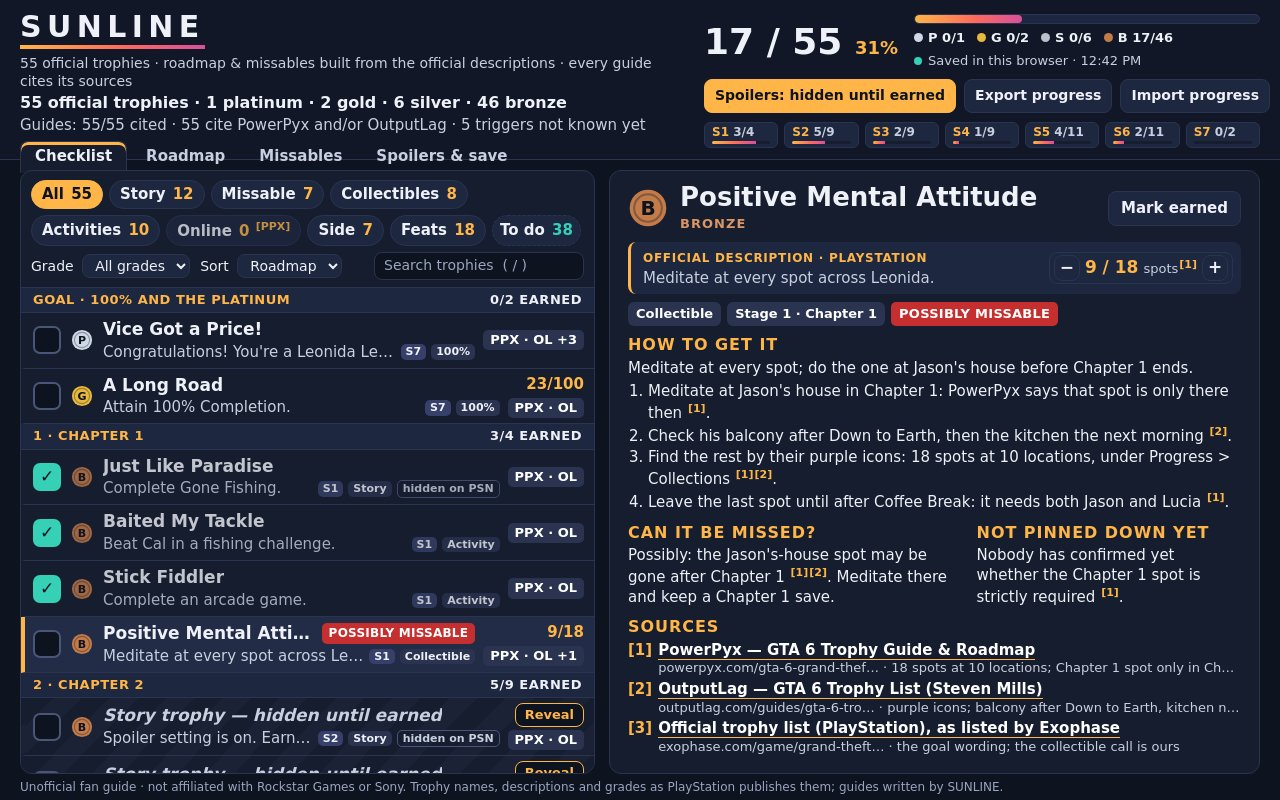
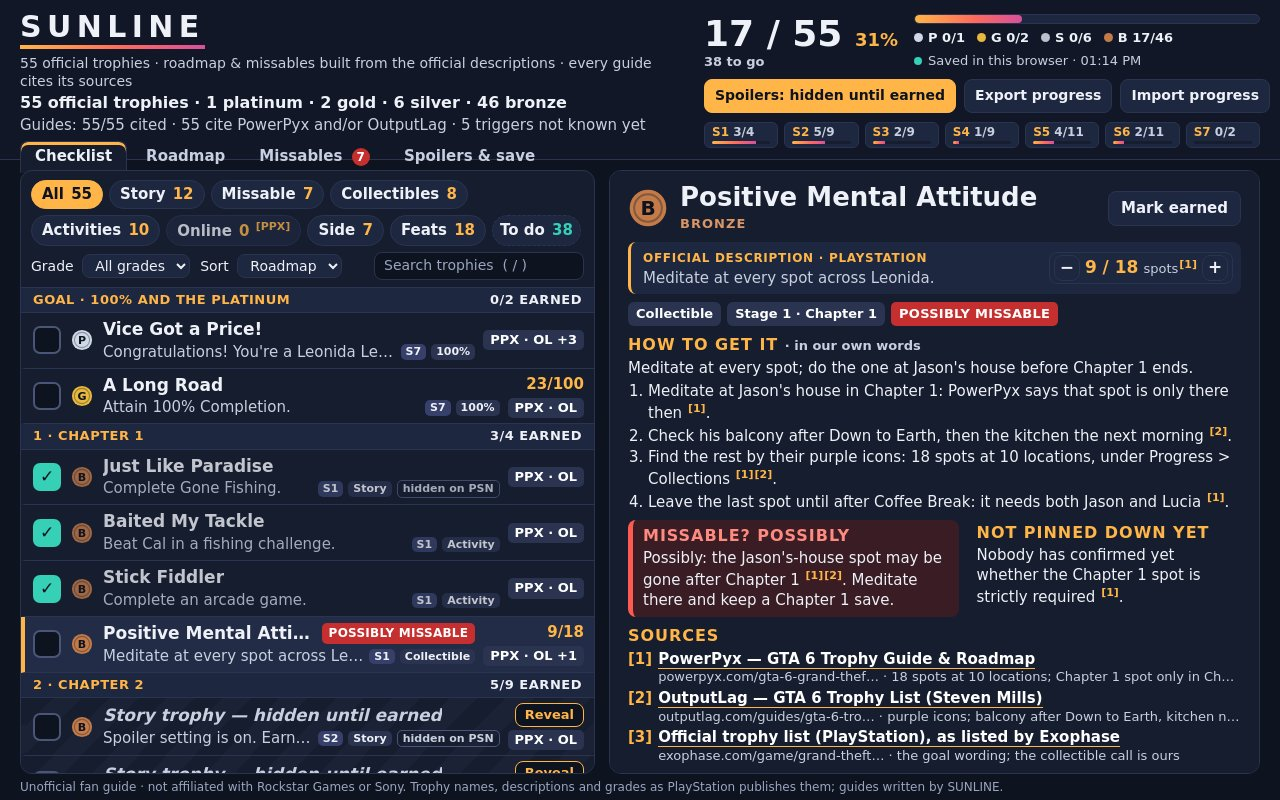
SUNLINE M2f: tinted Missable callout and 'in our own words' label in the guide pane; 'n to go' and a Missables count badge in the header; shots re-taken

diff --git a/app/css/sunline.css b/app/css/sunline.css
@@ -107,6 +107,12 @@ code { font-size: 13px; background: var(--raised); padding: 1px 5px; border-radi
 
 .earned-count small { font-size: 18px; color: var(--amber); font-weight: 800; }
 
+.earned-count .to-go { display: block; margin-top: 3px; font-size: 13px; font-style: normal; font-weight: 700;
+  color: var(--desc); }
+
+.tab-badge { display: inline-block; min-width: 18px; margin-left: 4px; padding: 0 5px; border-radius: 9px;
+  background: var(--red); color: #fff; font-size: 12px; font-weight: 800; line-height: 18px; text-align: center; }
+
 .count-side { flex: 1; display: flex; flex-direction: column; gap: 5px; }
 
 .sunbar { height: 10px; border-radius: 5px; background: var(--raised); overflow: hidden; border: 1px solid var(--line); }
@@ -416,6 +422,22 @@ body[data-route="roadmap"] .view, body[data-route="missables"] .view { grid-temp
 .pane-cols { display: grid; grid-template-columns: 1.25fr 1fr; gap: 18px; }
 
 .pane-cols p { margin: 0; font-size: 15px; line-height: 1.33; }
+
+.h3-note { font-size: 13px; font-weight: 700; letter-spacing: 0; text-transform: none; color: var(--desc); }
+
+/* Missable callout: a tinted box with a solid left edge, so the call reads before the prose. */
+.miss-call { margin-top: 6px; padding: 0 10px 6px; border-radius: var(--r-ctl); border-left: 5px solid var(--teal);
+  background: #17322f; }
+
+.miss-call h3 { margin-top: 5px; }
+
+.miss-call.miss-possible { border-left-color: #ff5a4f; background: #3a1c24; }
+
+.miss-call.miss-possible h3 { color: #ff8a80; }
+
+.miss-call.miss-unknown { border-left-color: var(--amber); background: #33291b; }
+
+.miss-call.miss-no h3 { color: var(--teal); }
 
 .quiet { color: var(--desc); }
 

diff --git a/app/js/views/guide-pane.js b/app/js/views/guide-pane.js
@@ -57,10 +57,14 @@ function guideBodyHtml(trophy, state) {
   const unknown = trophy.unknown
     ? `<h3>Not pinned down yet</h3><p>${withMarks(trophy.unknown)}</p>`
     : `<h3>Not pinned down yet</h3><p class="quiet">Nothing open: the sources agree on this one.</p>`;
+  // The missable call sits in a tinted callout: red for 'possible', amber for an unknown trigger, teal for 'no'.
+  const call = trophy.missable === "possible" ? "possible" : trophy.missable === "unknown" ? "unknown" : "no";
+  const callHead = { possible: "Missable? Possibly", unknown: "Missable? Not known", no: "Missable? No" }[call];
   return (
-    `<section class="howto"><h3>How to get it</h3><p class="guide-text">${withMarks(trophy.guide)}</p>` +
-    `<ol class="steps">${steps}</ol></section>` +
-    `<div class="pane-cols"><section><h3>Can it be missed?</h3><p>${withMarks(trophy.missableWhy)}</p></section>` +
+    `<section class="howto"><h3>How to get it <span class="h3-note">· in our own words</span></h3>` +
+    `<p class="guide-text">${withMarks(trophy.guide)}</p><ol class="steps">${steps}</ol></section>` +
+    `<div class="pane-cols"><section class="miss-call miss-${call}" aria-label="Can it be missed?">` +
+    `<h3>${callHead}</h3><p>${withMarks(trophy.missableWhy)}</p></section>` +
     `<section>${unknown}</section></div>` +
     `<section class="sources-block"><h3>Sources</h3>${sourcesHtml(trophy, state)}</section>`
   );

diff --git a/app/js/boot.js b/app/js/boot.js
@@ -99,7 +99,11 @@ function renderHeader(state) {
   const pct = Math.round((earned / total) * 100);
   document.getElementById("makeup").textContent = makeupLine(trophies);
   document.getElementById("cited-line").textContent = citedLine(trophies);
-  document.getElementById("earned-count").innerHTML = `${earned} / ${total} <small>${pct}%</small>`;
+  document.getElementById("earned-count").innerHTML =
+    `${earned} / ${total} <small>${pct}%</small> <em class="to-go">${total - earned} to go</em>`;
+  const flagged = trophies.filter((t) => t.missable).length;
+  document.getElementById("tab-missables").innerHTML =
+    `Missables <span class="tab-badge" aria-label="${flagged} flagged">${flagged}</span>`;
   const bar = document.getElementById("progress-bar");
   bar.innerHTML = `<span style="width:${pct}%"></span>`;
   bar.setAttribute("aria-valuenow", String(pct));
